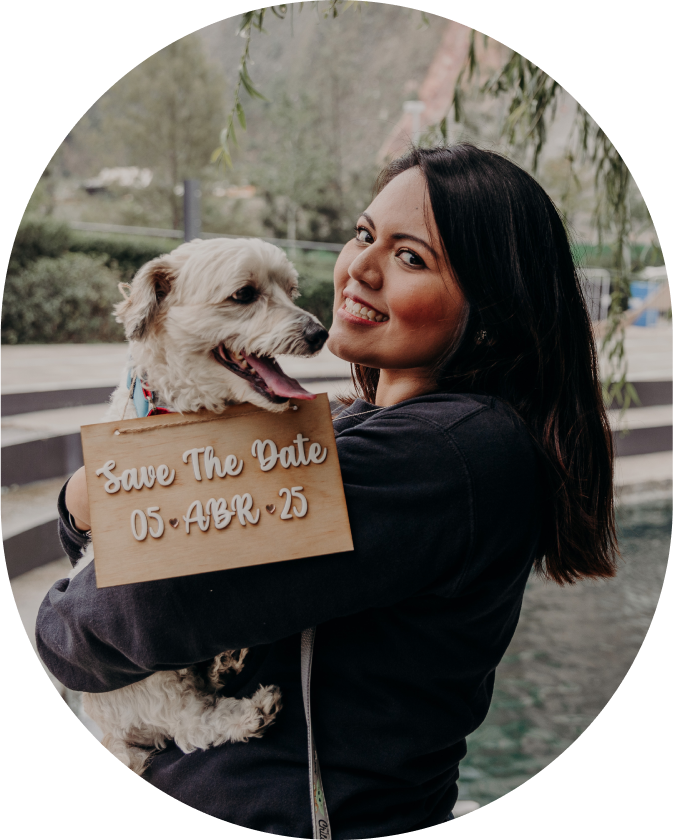
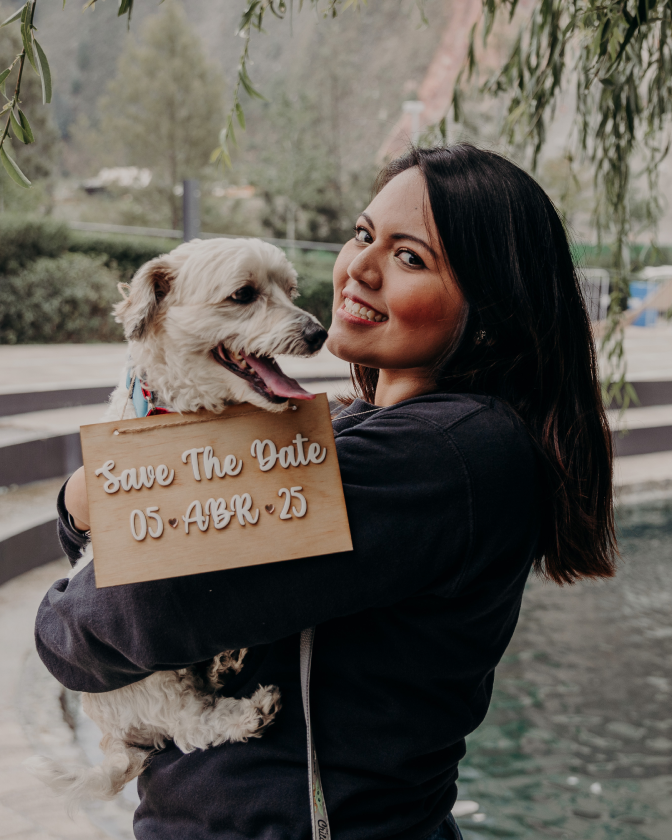
update

diff --git a/frontend/src/App.css b/frontend/src/App.css
@@ -1185,7 +1185,7 @@ input {
 		border-radius: 16.0625rem;
 		border: 2px solid var(--Gold-Start, #957237);
 		padding: 1.25rem;
-		width: 50%;
+		width: 100%;
 		height: 26rem;
 	}
 
@@ -1209,12 +1209,10 @@ input {
 	}
 
 	.parent-image {
-		border-radius: 4rem;
-		border: 6px solid var(--Gold-Start, #957237);
-		width: 17.5rem;
-		height: 20rem;
-		object-fit: cover;
-		object-position: top;
+		border-radius: 3rem;
+		border: 4px solid var(--Gold-Start, #957237);
+		width: 14rem;
+		height: 18rem;
 	}
 
 	h3 {
